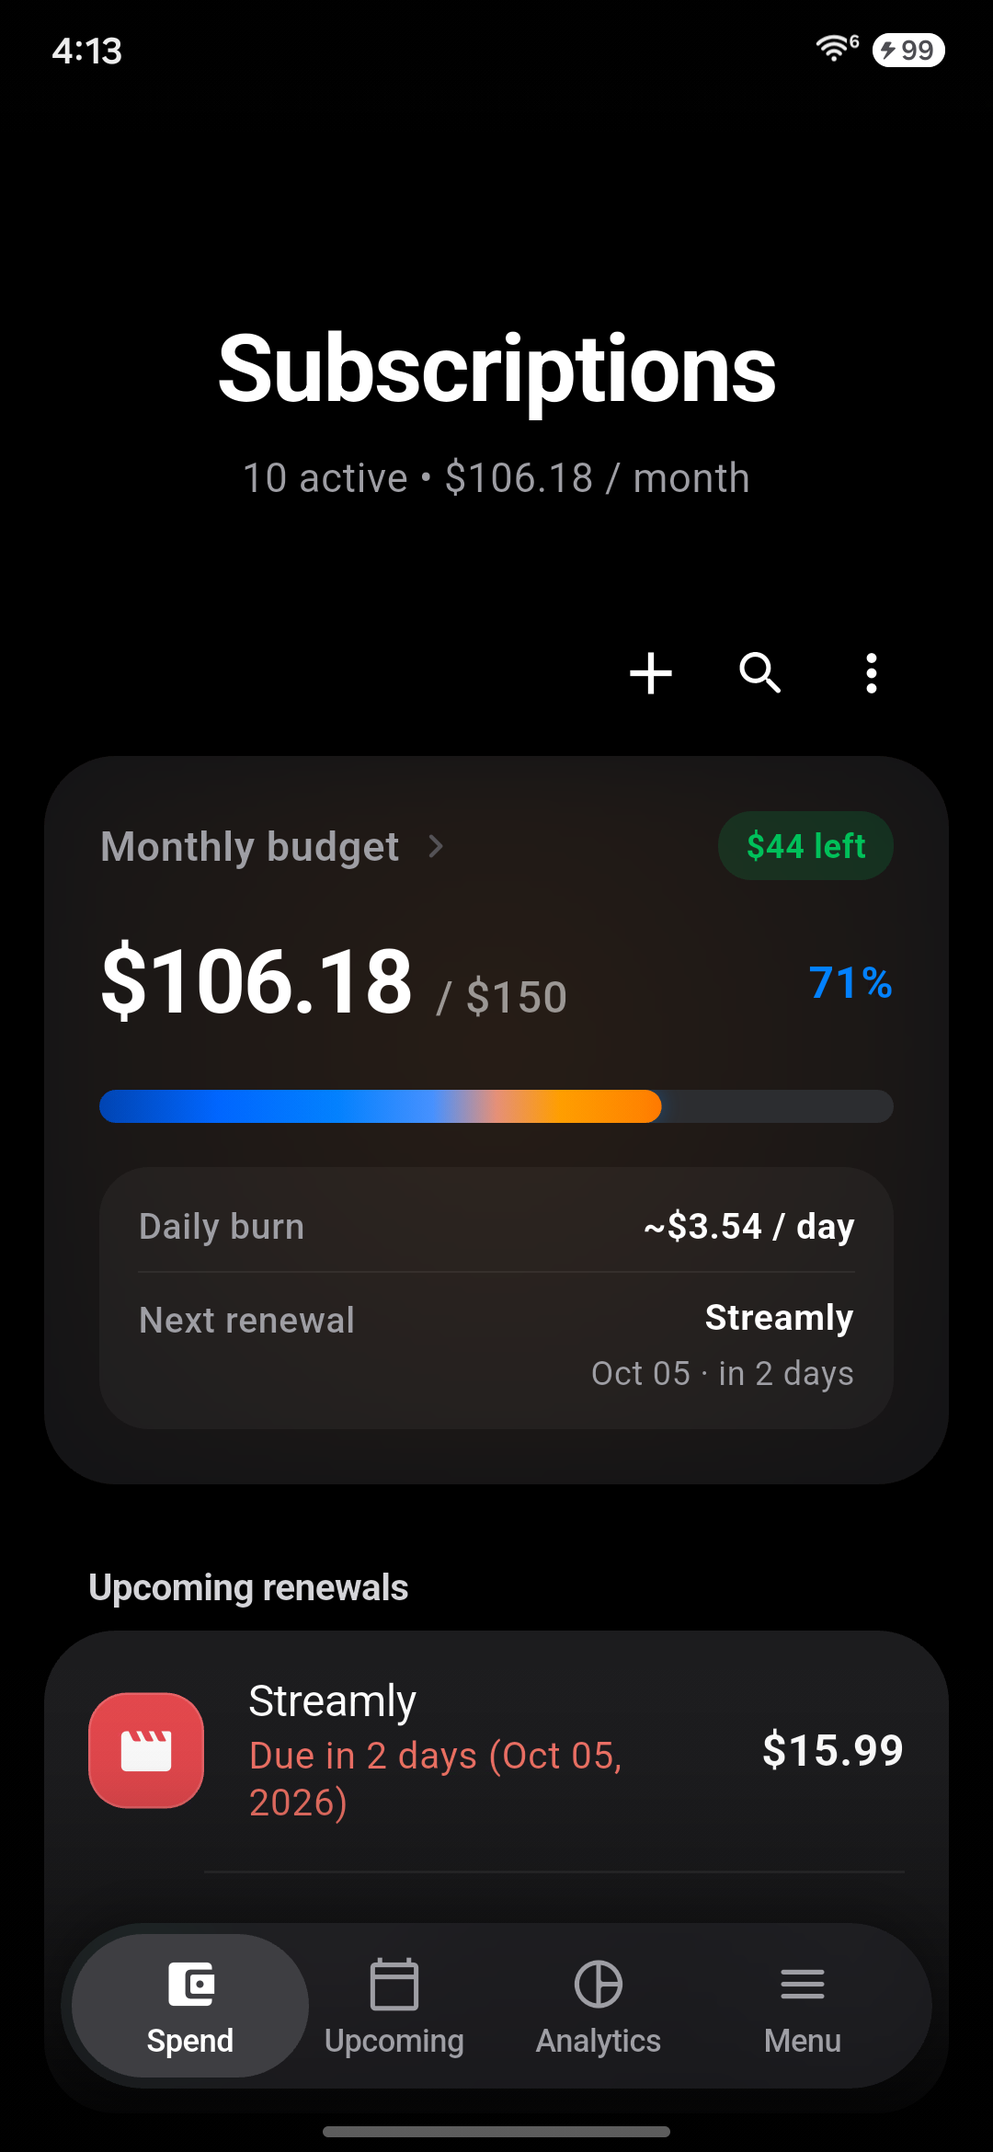
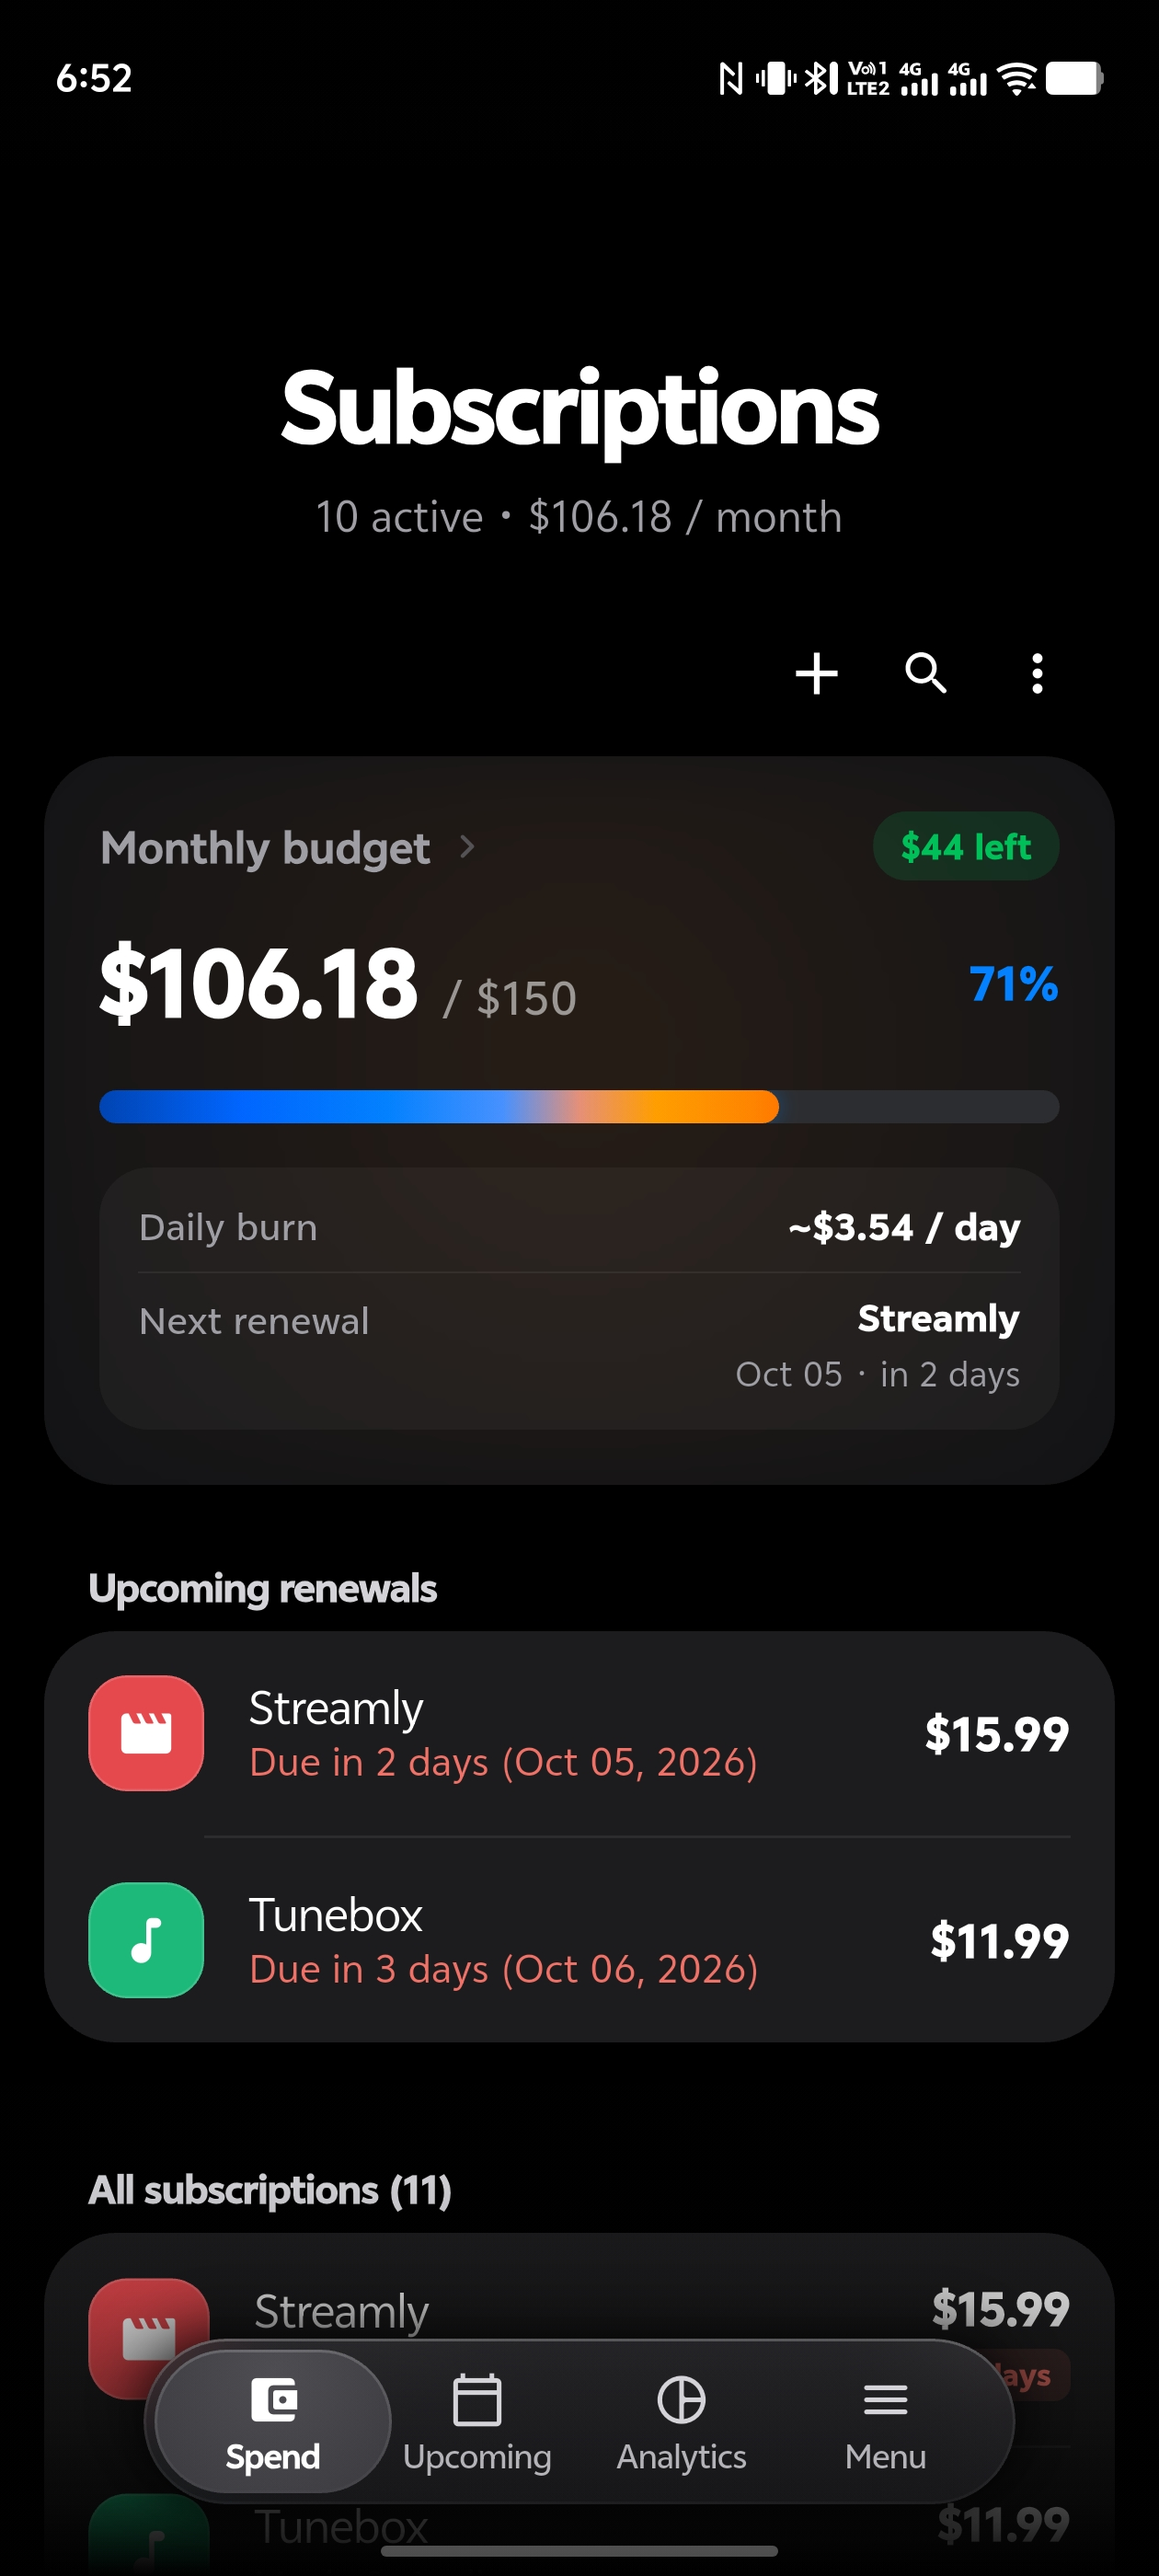
chore(store): 8 slides from vivo X200 Pro captures, close-up layout
New screenshots (1260x2800) for subscriptions, upcoming, analytics,
categories, detail, notification time, multi-currency and backup; the
feature graphic uses the new subscriptions shot. Back to the close-up
layout (phone running off the bottom, two-line headlines).

diff --git a/tool/store_graphics/template.html b/tool/store_graphics/template.html
@@ -1,7 +1,7 @@
 <!doctype html>
 <!--
   One Spend Google Play graphics. Each slide is chosen by the URL hash:
-    template.html#1 … #6   phone screenshots, 1080 x 1920
+    template.html#1 … #8   phone screenshots, 1080 x 1920
     template.html#feature  feature graphic, 1024 x 500
   Rendered to PNG by render.ps1 with headless Chrome.
 -->
@@ -47,7 +47,7 @@
       0 60px 140px rgba(0, 0, 0, 0.75),
       0 0 120px color-mix(in srgb, var(--glow) 55%, transparent);
   }
-  .screen { position: relative; border-radius: 104px; overflow: hidden; background: #000; aspect-ratio: 1080 / 2340; }
+  .screen { position: relative; border-radius: 104px; overflow: hidden; background: #000; aspect-ratio: 1260 / 2800; }
   .screen img { display: block; width: 100%; }
   /* A clean status bar drawn over the captured one. */
   .status {
@@ -117,26 +117,39 @@
 
 <script>
   // Slide copy. Accent = eyebrow colour; glow = the backdrop light (the app's own accents).
+  // Captures are 1260 x 2800 (vivo X200 Pro). shift: capture pixels scrolled off the top
+  // inside the frame; top: where the phone starts (close-up layout).
   const slides = {
-    1: { img: '1-subscriptions', short: 'All your subscriptions', shortSub: 'See what you pay and when it renews.', eyebrow: 'All in one place', title: 'Every subscription.<br>One place.',
+    1: { img: '1-subscriptions', short: 'All your subscriptions', shortSub: 'See what you pay and when it renews.',
+         eyebrow: 'All in one place', title: 'Every subscription.<br>One place.',
          sub: 'See what you pay, and when it renews.', accent: '#5390F5', glow: 'rgba(3,129,254,.30)', glow2: 'rgba(83,144,245,.16)' },
-    2: { img: '2-upcoming', short: 'Never miss a renewal', shortSub: 'Reminders before every charge.', eyebrow: 'Upcoming', title: 'Never miss<br>a renewal.',
-         sub: 'Every charge for the month ahead, with reminders before each one.', accent: '#48B5A0', glow: 'rgba(72,181,160,.28)', glow2: 'rgba(72,181,160,.14)' },
-    3: { img: '3-trends', short: 'Spot every trend', shortSub: 'Your yearly total and forecast.', eyebrow: 'Analytics', title: 'Spot the trend<br>before it costs you.',
-         sub: 'Your yearly total, budget and spending forecast.', accent: '#F4A261', glow: 'rgba(244,162,97,.24)', glow2: 'rgba(83,144,245,.14)' },
-    4: { img: '4-categories', short: 'See where it goes', shortSub: 'Your spending by category.', eyebrow: 'Categories', title: 'See where every<br>dollar goes.',
+    2: { img: '2-upcoming', short: 'Never miss a renewal', shortSub: 'Every charge, months ahead.',
+         eyebrow: 'Upcoming', title: 'Never miss<br>a renewal.',
+         sub: 'Every charge for the months ahead, at a glance.', accent: '#48B5A0', glow: 'rgba(72,181,160,.28)', glow2: 'rgba(72,181,160,.14)' },
+    3: { img: '3-trends', short: 'Spot every trend', shortSub: 'Your yearly total and smart tips.',
+         eyebrow: 'Analytics', title: 'Spot the trend<br>before it costs you.',
+         sub: 'Your yearly total, budget and smart money tips.', accent: '#00C05A', glow: 'rgba(0,192,90,.24)', glow2: 'rgba(0,192,90,.12)' },
+    4: { img: '4-categories', shift: 150, short: 'See where it goes', shortSub: 'Your spending by category.',
+         eyebrow: 'Categories', title: 'See where every<br>dollar goes.',
          sub: 'A clear breakdown of what each kind of service costs.', accent: '#7E57C2', glow: 'rgba(126,87,194,.32)', glow2: 'rgba(240,113,103,.14)' },
-    // shift: capture pixels scrolled off the top inside the frame; top: where the phone starts.
-    5: { img: '5-savings', short: 'Pay less yearly', shortSub: 'Find the cheaper annual plans.', shift: 590, eyebrow: 'Save money', title: 'Pay less by going yearly.',
-         sub: 'Spot the plans that cost less on an annual plan.', accent: '#00C05A', glow: 'rgba(0,192,90,.24)', glow2: 'rgba(0,192,90,.12)' },
-    6: { img: '6-backup', short: 'Never lose a thing', shortSub: 'Backups and restore points.', top: 820, eyebrow: 'Backup', title: 'Never lose<br>a thing.',
+    5: { img: '5-detail', short: 'Every detail, one tap', shortSub: 'Price, cycle and renewal date.',
+         eyebrow: 'Details', title: 'Every detail<br>in one tap.',
+         sub: 'Price, billing cycle, next renewal and notes.', accent: '#F4A261', glow: 'rgba(244,162,97,.24)', glow2: 'rgba(83,144,245,.14)' },
+    6: { img: '6-reminders', short: 'Reminders, your way', shortSub: 'Pick when each heads-up arrives.',
+         eyebrow: 'Reminders', title: 'Reminders on<br>your schedule.',
+         sub: 'Choose exactly when each heads-up arrives.', accent: '#48B5A0', glow: 'rgba(72,181,160,.28)', glow2: 'rgba(83,144,245,.12)' },
+    7: { img: '7-currency', short: 'Any currency, one total', shortSub: '45+ currencies, shown in yours.',
+         eyebrow: 'Multi-currency', title: 'Any currency.<br>One total.',
+         sub: 'Pay in 45+ currencies and see it all in yours.', accent: '#5390F5', glow: 'rgba(3,129,254,.28)', glow2: 'rgba(0,192,90,.12)' },
+    8: { img: '8-backup', short: 'Never lose a thing', shortSub: 'Backups and restore points.',
+         eyebrow: 'Backup', title: 'Never lose<br>a thing.',
          sub: 'One-file backups and automatic restore points.', accent: '#FB8C00', glow: 'rgba(251,140,0,.22)', glow2: 'rgba(83,144,245,.12)' },
   };
 
   function phone(img, shift = 0, top = null) {
     const status = document.getElementById('statusbar').innerHTML;
-    // margin-top in % is relative to the width, so this moves the capture by `shift` of its 1080 px.
-    const imgStyle = shift ? ` style="margin-top:-${(shift / 1080 * 100).toFixed(3)}%"` : '';
+    // margin-top in % is relative to the width, so this moves the capture by `shift` of its 1260 px.
+    const imgStyle = shift ? ` style="margin-top:-${(shift / 1260 * 100).toFixed(3)}%"` : '';
     const phoneStyle = top ? ` style="top:${top}px"` : '';
     return `<div class="phone"${phoneStyle}><div class="screen"><img src="captures/${img}.png" alt=""${imgStyle}>${status}</div></div>`;
   }

diff --git a/tool/store_graphics/README.md b/tool/store_graphics/README.md
@@ -4,7 +4,7 @@ The finished graphics live in [`store/play/`](../../store/play):
 
 | File | Size | Play Console field |
 |---|---|---|
-| `screenshots/1-subscriptions.png` … `6-backup.png` | 1080 × 1920 | Phone screenshots, in this order |
+| `screenshots/1-subscriptions.png` … `8-backup.png` | 1080 × 1920 | Phone screenshots, in this order |
 | `feature-graphic.png` | 1024 × 500 | Feature graphic |
 | `icon-512.png` | 512 × 512 | App icon |
 
@@ -19,22 +19,24 @@ All the data in the screenshots is fictional: Streamly, Tunebox, Nova Bank and s
    ```
 
    Copy it to the phone's Downloads. In the app, go to Settings › Backup & data › Restore from backup and choose **Replace everything**. Use a debug build, so nothing is sent to Firebase.
-2. **Capture the six screens** at full resolution with `adb exec-out screencap -p > file.png`:
-   - the Subscriptions tab (top);
-   - the Upcoming tab (top);
-   - Analytics, scrolled to the yearly-cost hero;
-   - Analytics, scrolled to "By category";
-   - Streamly's detail page, at "Spend & Billing";
-   - Backup & data.
+2. **Capture the eight screens**, full screen, unscrolled unless noted. The current set was taken on a vivo X200 Pro at 1260 × 2800, and the frame expects that shape.
+   1. the Subscriptions tab (also used for the feature graphic);
+   2. the Upcoming tab;
+   3. the Analytics tab;
+   4. Analytics, scrolled to "By category";
+   5. a subscription's detail page;
+   6. a subscription's notification time;
+   7. Settings › Main currency;
+   8. Backup & data.
 
-   Save them over the files in `captures/` with the same names.
+   Save them as PNGs in `captures/` under the names in `render.ps1` (`1-subscriptions.png` … `8-backup.png`).
 3. **Clean and render:**
 
    ```bash
    python tool/store_graphics/clean_captures.py
    ```
 
-   This paints out Samsung's Edge panel handle. Then render:
+   This paints out Samsung's Edge panel handle; it only acts on 1080 × 2340 Samsung captures. Then render:
 
    ```bash
    powershell -ExecutionPolicy Bypass -File tool/store_graphics/render.ps1
